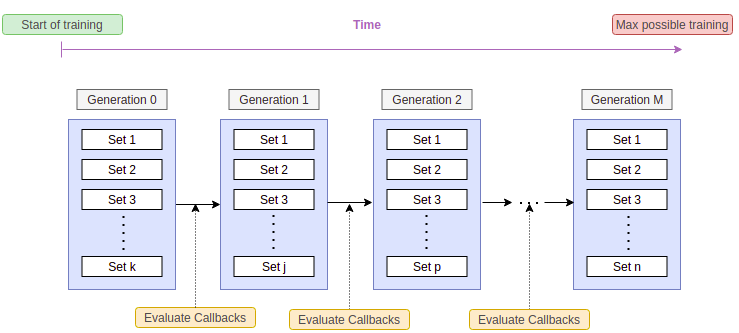
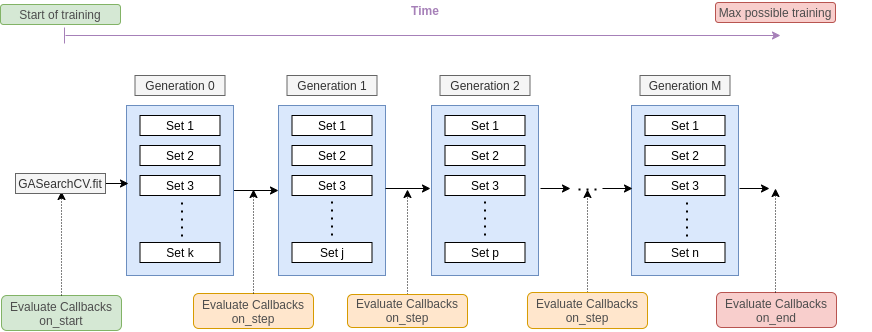
Docs on new Callbacks methods

diff --git a/docs/tutorials/custom_callback.rst b/docs/tutorials/custom_callback.rst
@@ -5,10 +5,28 @@ sklearn-genetic-opt comes with some pre-defined callbacks,
 but you can make one of your own by defining a callable with
 certain methods.
 
+Parameters
+----------
+
 The callback must be a class with inheritance from the class
 :class:`~sklearn_genetic.callbacks.base.BaseCallback` that implements the
-``__call__`` and ``on_step`` methods, the result of them must be a bool,
+following methods:
+
+**on_start:** This is evaluated before starting the generation 0, it should return ``None``
+or ``False``. It expects the parameter `estimator`.
+
+**on_step:** This is called at the end of each generation, the result of them must be a bool,
 ``True`` means that the optimization must stop, ``False``, means it can continue.
+It expects the parameters `record`, `logbook` and `estimator`.
+
+**on_end:** This method is called at the end of the las generation or after an stopping
+callback meets its criteria. It expects the parameters `logbook` and `estimator`,
+it should return ``None`` or ``False``.
+
+All of those methods are optional, but at least one should be defined.
+
+Example
+-------
 
 In this example, we are going to define a dummy callback that
 stops the process if there have been more that `N` fitness values
@@ -19,8 +37,6 @@ Those are a dictionary, a deap's Logbook object and the
 current :class:`~sklearn_genetic.GASearchCV` respectively
 with the current iteration metrics, all the past iterations metrics
 and all the properties saved in the estimator.
-You can choice which to use, but all of them must be parameters
-on the ``on_step`` and ``__call__`` methods.
 
 So to check inside the logbook, we could define a function like this:
 
@@ -72,14 +88,37 @@ that will have all this parameters, so we can rewrite it like this:
 
            return False
 
-       def __call__(self, record, logbook, estimator=None):
-           return self.on_step(record, logbook, estimator)
+Now, let's expend it to add the others method, just to print a message:
 
+.. code-block:: python
 
-**Note:** The implementation of the ``__call__`` method is optional, by default
-its behavior is inherited from the :class:`~sklearn_genetic.callbacks.base.BaseCallback`.
-It's in this example for deeper understanding of how the callbacks are coded and
-to avoid unexpected overwrites.
+   from sklearn_genetic.callbacks.base import BaseCallback
+
+   class DummyThreshold(BaseCallback):
+       def __init__(self, threshold, N, metric='fitness'):
+           self.threshold = threshold
+           self.N = N
+           self.metric = metric
+
+       def on_start(self, estimator=None):
+           print("This training is starting!")
+
+       def on_step(self, record, logbook, estimator=None):
+           # Not enough data points
+           if len(logbook) <= self.N:
+               return False
+           # Get the last N metrics
+           stats = logbook.select(self.metric)[(-self.N - 1):]
+
+           n_met_condition = [x for x in stats if x < self.threshold]
+
+           if len(n_met_condition) > self.N:
+               return True
+
+           return False
+
+       def on_end(self, logbook=None, estimator=None):
+           print("I'm done with training!")
 
 So that is it, now you can initialize the DummyThreshold
 and pass it to a in the ``fit`` method of a
@@ -93,3 +132,6 @@ and pass it to a in the ``fit`` method of a
 Here there is an output example of this callback:
 
 .. image:: ../images/custom_callback_dummy_0.png
+
+Notice that there is an extra INFO message, that is general for all the callbacks
+that stops the training.

diff --git a/docs/release_notes.rst b/docs/release_notes.rst
@@ -24,6 +24,14 @@ Features:
   still partial support, missing properties like `cv_results_`, `best_index_` and `multimetric_`.
 * tqdm progress bar is now displayed when the .fit method of `GASearchCV` is called, it shows
   how many generations are left in the training progress.
+* Added methods `on_start` and `on_end` to :class:`~sklearn_genetic.callbacks.base.BaseCallback`.
+  Now the algorithms check for the callbacks like this:
+
+  - **on_start**: When the evolutionary algorithm is called from the GASearchCV.fit method
+
+  - **on_step:** When the evolutionary algorithm finish a generation (no change here).
+
+  - **on_end:** At the end of the last generation.
 
 ^^^^^^^^^^
 Bug Fixes:
@@ -47,7 +55,8 @@ Docs:
 * Edited all demos to be in the jupyter notebook format.
 * Added embedded jupyter notebooks examples.
 * The modules of the package now have a summary of their classes/functions in the docs.
-* Updated the callbacks tutorials to add new TensorBoard callback.
+* Updated the callbacks and custom callbacks tutorials to add new TensorBoard callback and
+  the new methods on the base callback.
 
 What's new in 0.5.0
 -------------------

diff --git a/docs/tutorials/callbacks.rst b/docs/tutorials/callbacks.rst
@@ -10,7 +10,9 @@ Common callbacks includes different rules to stop the algorithm or log artifacts
 The callbacks are passed to the ``.fit`` method
 of the :class:`~sklearn_genetic.GASearchCV` class.
 
-The callbacks are evaluated at the end of each generation fit, so it looks like this:
+The callbacks are evaluated at start of the training using the `on_start` method,
+at the end of each generation fit using `on_step` method and at the
+end of the training using `on_end', so it looks like this:
 
 .. image:: ../images/callbacks_evaluation_0.png
 
